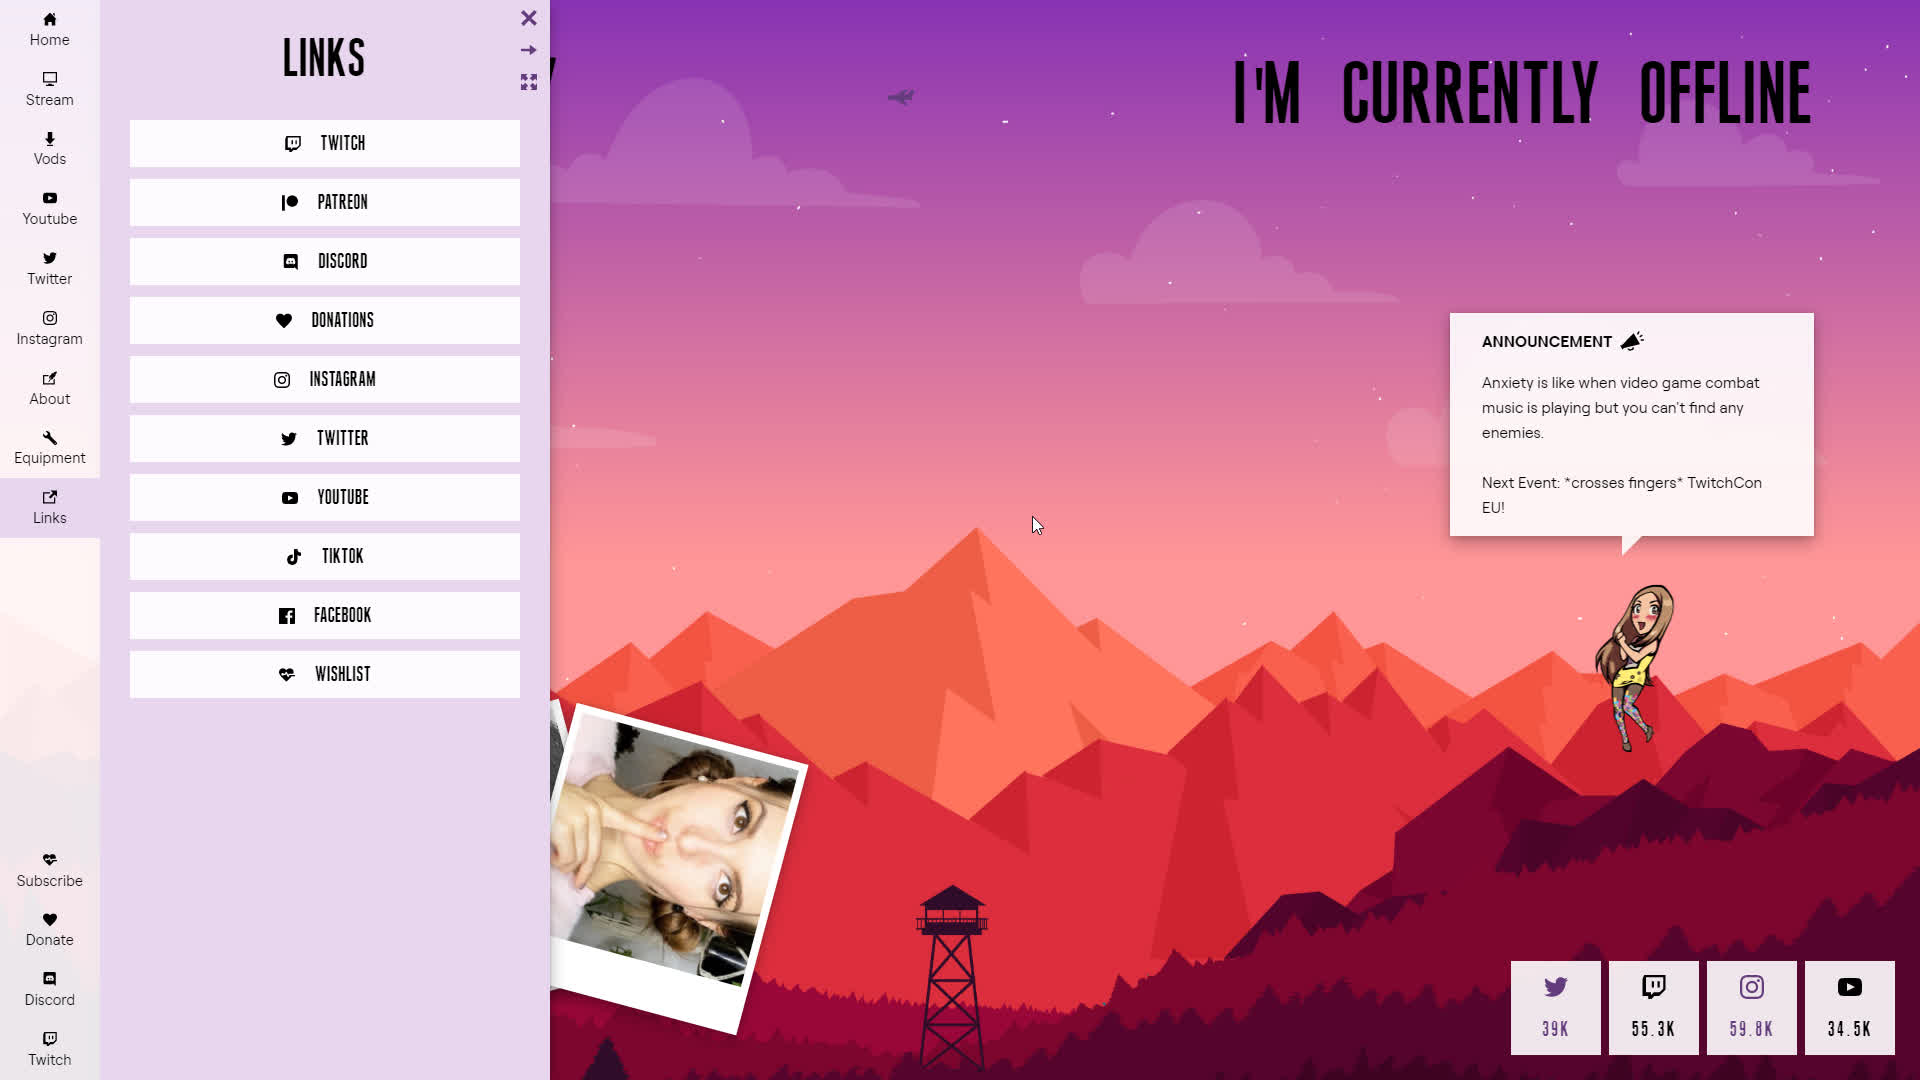
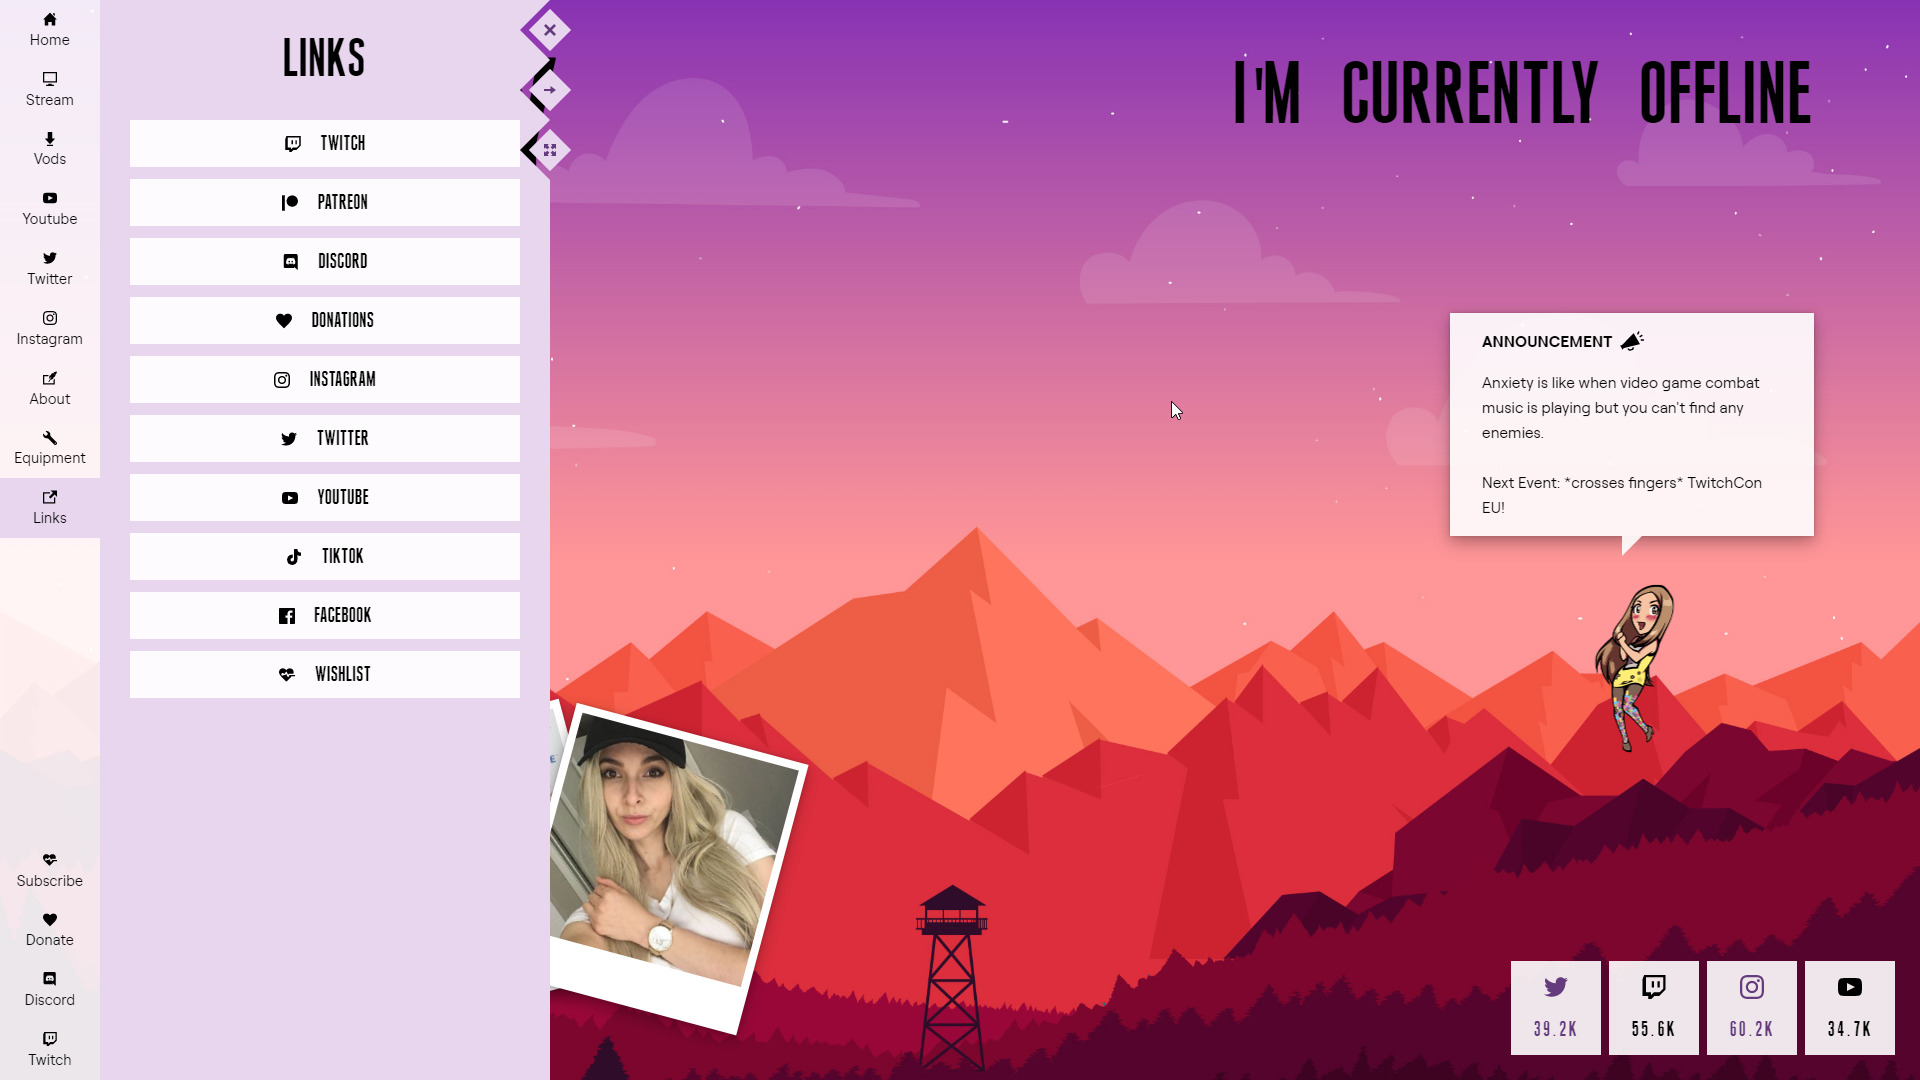
new frontpage

Changed region(s): [[0.2812, 0.6417, 0.4375, 0.9167], [0.25, 0.0, 0.3125, 0.1528], [0.7812, 0.9472, 0.8125, 0.9778]]

diff --git a/client/src/components/home/BackgroundMouse.js b/client/src/components/home/BackgroundMouse.js
@@ -1,9 +1,10 @@
-import React from 'react';
+import React, {useMemo} from 'react';
 import {connect} from 'react-redux';
 import styled from 'styled-components';
 import {
   selectMenuDisplay,
   selectMenuHover,
+  selectCurrentMousePosition,
 } from 'reducers';
 
 const StyledWrapper = styled.div`
@@ -52,6 +53,7 @@ const StyledVideo = styled(Video)`
   background-size: cover;
   background-position: center center;
 `;
+/*
 const StyledText = styled.div`
   display: flex;
   justify-content: center;
@@ -68,8 +70,25 @@ const StyledText = styled.div`
   color: #fff;
   mix-blend-mode: darken;
 `;
-
-const Background = ({menuDisplay, hoverOption}) => {
+*/
+const StyledTextWrapper = styled.div`
+  height: 100%;
+  width: 100%;
+  position: fixed;
+  background-color: rgba(0,0,0,.75);
+  mix-blend-mode: darken;
+  display: flex;
+  flex-direction: column;
+  justify-content: center;
+`;
+const StyledText = styled.h1`
+  font-size: 15vw;
+  margin: 0 0 0 ${props => props.marginLeft};
+  color: #dadada;
+  font-family: 'Josefin Sans';
+`;
+const Background = ({menuDisplay, hoverOption, mousePosition}) => {
+  const memoizedMovement = useMemo(() => mousePosition.xValue/100, [mousePosition])
   return(
     <StyledWrapper
       hoverOption={hoverOption}
@@ -79,15 +98,31 @@ const Background = ({menuDisplay, hoverOption}) => {
         poster='/static/images/daytimelight.jpg'
         src='/static/images/daytime.mp4'
       />
-      <StyledText>
-        KC
-      </StyledText>
+      <StyledTextWrapper>
+        <StyledText
+          marginLeft="-3rem"
+          style={{
+            transform: `translateX(${memoizedMovement}px)`,
+          }}
+        >
+          CREATIVE
+        </StyledText>
+        <StyledText
+          marginLeft="3rem"
+          style={{
+            transform: `translateX(-${memoizedMovement}px)`,
+          }}
+        >
+          DEVELOPER
+        </StyledText>
+      </StyledTextWrapper>
     </StyledWrapper>
   );
 };
 
 const mapStateToProps = (state) => {
   return {
+    mousePosition: selectCurrentMousePosition(state),
     menuDisplay: selectMenuDisplay(state),
     hoverOption: selectMenuHover(state),
   };

diff --git a/client/src/menu9/MenuText.js b/client/src/menu9/MenuText.js
@@ -1,4 +1,4 @@
-import React, {useEffect, useState} from 'react';
+import React, {useCallback, useEffect, useState} from 'react';
 import {hoverMenuOption} from 'actions/menu';
 import {connect} from 'react-redux';
 import Scrollbar from 'smooth-scrollbar';
@@ -16,20 +16,35 @@ const StyledLinkWrapper = styled.div`
   padding-right: 6rem;
   box-sizing: border-box;
 `;
-const LinkDivWrapper = React.memo(({hoverOption, image, children}) => {
+const LinkDivWrapper = React.memo(({
+  hoverOption,
+  image,
+  number,
+  text,
+}) => {
   if (window.innerWidth >= 768) {
     return (
       <StyledLinkWrapper
         onMouseOver={() => hoverOption(image)}
       >
-        {children}
+        <StyledNumber>
+          {number}
+        </StyledNumber>
+        <div style={{marginLeft: '1rem'}}>
+          {text}
+        </div>
       </StyledLinkWrapper>
     );
   }
   else {
     return (
       <StyledLinkWrapper>
-        {children}
+        <StyledNumber>
+          {number}
+        </StyledNumber>
+        <div style={{marginLeft: '1rem'}}>
+          {text}
+        </div>
       </StyledLinkWrapper>
     );
   }
@@ -152,6 +167,8 @@ const MenuText = ({menuDisplay, loadedContent, hoverOption}) => {
     const walk = (y-startY) * 3;
     scrollbar.scrollTo(0, scrollbar.scrollTop - walk, 600);
   };
+  const memoizedHover = useCallback(hoverOption, []);
+
   return(
     <StyledWrapper
       menuDisplay={menuDisplay}
@@ -170,15 +187,10 @@ const MenuText = ({menuDisplay, loadedContent, hoverOption}) => {
           >
             <LinkDivWrapper
               image={value.image}
-              hoverOption={hoverOption}
-            >
-              <StyledNumber>
-                {value.value}
-              </StyledNumber>
-              <div style={{marginLeft: '1rem'}}>
-                {value.text}
-              </div>
-            </LinkDivWrapper>
+              hoverOption={memoizedHover}
+              number={value.value}
+              text={value.text}
+            />
           </CheckCurrentPage>
         </StyledRow>
       ))}

diff --git a/client/src/App.js b/client/src/App.js
@@ -10,6 +10,7 @@ import asyncComponent from 'components/split/AsyncComponent';
 import {Switch, Route} from 'react-router-dom';
 import styled, {ThemeProvider} from 'styled-components';
 import {themeData} from 'data/themeData';
+import TrackMouse from 'components/services/TrackMouse';
 
 const AsyncAdmin = asyncComponent(() => import('routes/PassportCheck'));
 
@@ -21,19 +22,22 @@ const StyledWrapper = styled.div`
 `;
 
 const App = () => {
+  console.log('rerender');
   return (
     <ThemeProvider theme={themeData}>
-      <StyledWrapper id="main_app">
-        <DetectMobile/>
-        <DetectEdge/>
-        <Switch>
-          <AppliedRoute
-            path="/shodyra/admin"
-            component={AsyncAdmin}
-          />
-          <Route path="/" render={(props) => <SiteRoutesWrapper {...props}/>}/>
-        </Switch>
-      </StyledWrapper>
+      <TrackMouse>
+        <StyledWrapper id="main_app">
+          <DetectMobile/>
+          <DetectEdge/>
+          <Switch>
+            <AppliedRoute
+              path="/shodyra/admin"
+              component={AsyncAdmin}
+            />
+            <Route path="/" render={(props) => <SiteRoutesWrapper {...props}/>}/>
+          </Switch>
+        </StyledWrapper>
+      </TrackMouse>
     </ThemeProvider>
   );
 };

diff --git a/client/src/reducers/mouse.js b/client/src/reducers/mouse.js
@@ -1,9 +1,11 @@
 import {
+  GET_MOUSE_POSITION,
   SET_MOBILE,
   SET_EDGE,
 } from 'actions/mouse';
 
 const DEFAULT_STATE={
+  mousePosition: {xValue: 0, yValue: 0},
   isMobile: true,
   isEdge: false,
 };
@@ -11,17 +13,25 @@ const DEFAULT_STATE={
 export default(state=DEFAULT_STATE, payload)=>
 {
   switch(payload.type){
-  case SET_MOBILE:
-    return state = {
-      ...state,
-      isMobile: payload.payload
-    };
-  case SET_EDGE:
-    return state = {
-      ...state,
-      isEdge: payload.payload
-    };
-  default:
-    return state;
-  }
+    case GET_MOUSE_POSITION:
+      return state = {
+        ...state,
+        mousePosition: {
+          xValue: payload.xValue,
+          yValue: payload.yValue,
+        },
+      };
+    case SET_MOBILE:
+      return state = {
+        ...state,
+        isMobile: payload.payload
+      };
+    case SET_EDGE:
+      return state = {
+        ...state,
+        isEdge: payload.payload
+      };
+    default:
+      return state;
+    }
 };

diff --git a/client/src/components/services/TrackMouse.js b/client/src/components/services/TrackMouse.js
@@ -1,14 +1,22 @@
-import React, {useState} from 'react';
-import Arrow from 'components/services/Arrow';
+import React from 'react';
+import {getMousePosition} from 'actions/mouse';
+import {connect} from 'react-redux';
 
-const TrackMouse = ({children}) => {
-  const [mousePosition, setMousePosition] = useState({xValue: 0, yValue: 0});
+const TrackMouse = ({children, getMousePosition}) => {
   return(
-    <div onMouseMove={(e) => setMousePosition({xValue: e.clientX, yValue: e.clientY})}>
+    <div onMouseMove={(e) => getMousePosition(e)}>
       {children}
-      <Arrow mousePosition={mousePosition}/>
     </div>
   );
 };
 
-export default TrackMouse;
+const mapDispatchToProps = (dispatch) => {
+  return {
+    getMousePosition: e => dispatch(getMousePosition(
+      e.clientX,
+      e.clientY,
+    )),
+  };
+};
+
+export default connect(null, mapDispatchToProps)(TrackMouse);

diff --git a/client/src/menu9/BackgroundImageDisplay.js b/client/src/menu9/BackgroundImageDisplay.js
@@ -27,14 +27,14 @@ const StyledBackground = styled.div`
 `;
 
 const BackgroundImage = React.memo(({menuOpen, link, src, onClick}) => {
-    return <StyledBackground
-      menuOpen={menuOpen}
-      style={{
-        backgroundImage: `url(${src})`,
-      }}
-      onClick={() => onClick(link, true)}
-    />
-    });
+  return <StyledBackground
+    menuOpen={menuOpen}
+    style={{
+      backgroundImage: `url(${src})`,
+    }}
+    onClick={() => onClick(link, true)}
+  />
+});
 
 const BackgroundImageDisplay = ({hoverOption, image, link, loadedContent, menuDisplay, toggleMenu}) => {
   const [menuOpen, setMenuOpen] = useState(false);

diff --git a/client/src/reducers/index.js b/client/src/reducers/index.js
@@ -62,6 +62,7 @@ export const selectGitCommits = (state) => state.git.commits;
 /*======================================
 =               MOUSE                  =
 ======================================*/
+export const selectCurrentMousePosition = (state) => state.mouse.mousePosition;
 export const selectMouseContent = (state) => state.mouse.content ? state.mouse.content : '';
 export const selectIsMobile = (state) => state.mouse.isMobile;
 export const selectIsEdge = (state) => state.mouse.isEdge;

diff --git a/client/src/actions/mouse.js b/client/src/actions/mouse.js
@@ -1,5 +1,14 @@
+export const GET_MOUSE_POSITION = Symbol('GET_MOUSE_POSITION');
 export const SET_MOBILE = Symbol('SET_MOBILE');
 export const SET_EDGE = Symbol('SET_EDGE');
+
+export const getMousePosition = (xValue, yValue) => {
+  return{
+    type: GET_MOUSE_POSITION,
+    xValue: xValue,
+    yValue: yValue,
+  };
+};
 
 export const setMobile = (payload) =>{
   return{

diff --git a/client/src/pages/Home.js b/client/src/pages/Home.js
@@ -1,5 +1,5 @@
 import React, {useEffect} from 'react';
-import Background from 'components/home//Background';
+import Background from 'components/home//BackgroundMouse';
 import Logo from 'components/home/Logo';
 import Contact from 'components/home/Contact';
 import {connect} from 'react-redux';

diff --git a/client/src/components/home/BackgroundClip.js b/client/src/components/home/BackgroundClip.js
@@ -23,11 +23,11 @@ const StyledWrapper = styled.div`
 	}
 `;
 
-const Home = () => {
+const BackgroundClip = () => {
   return (
     <StyledWrapper>
     </StyledWrapper>
   );
 };
 
-export default Home;
+export default BackgroundClip;

diff --git a/client/src/pages/ProjectMisc.js b/client/src/pages/ProjectMisc.js
@@ -39,6 +39,7 @@ const StyledObject = styled.div`
   font-size: var(--size-small);
   font-family: 'Open Sans', Helvetica, sans-serif;
   align-items: center;
+  min-height: 50vh;
   a {
     display: inline-block;
   }
